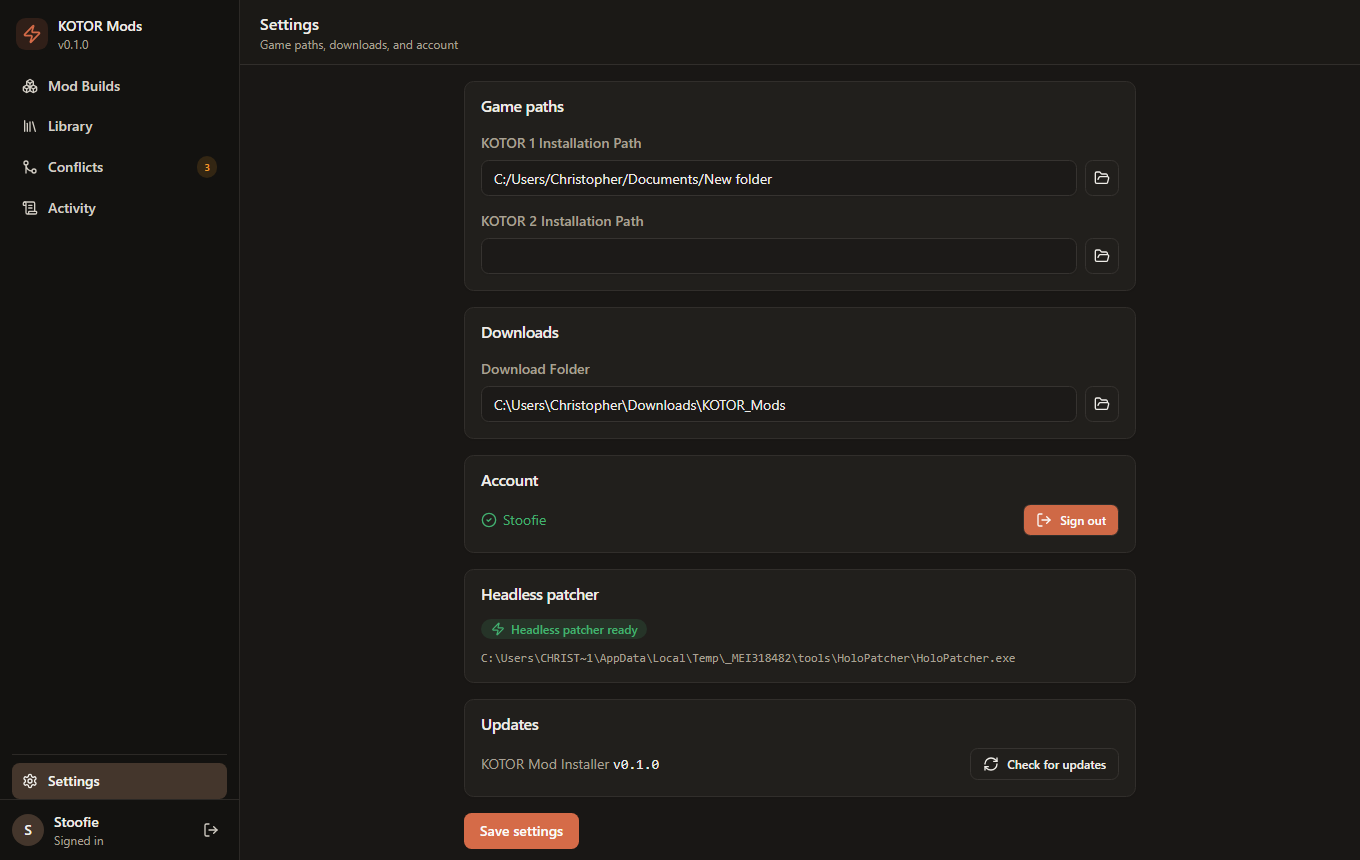
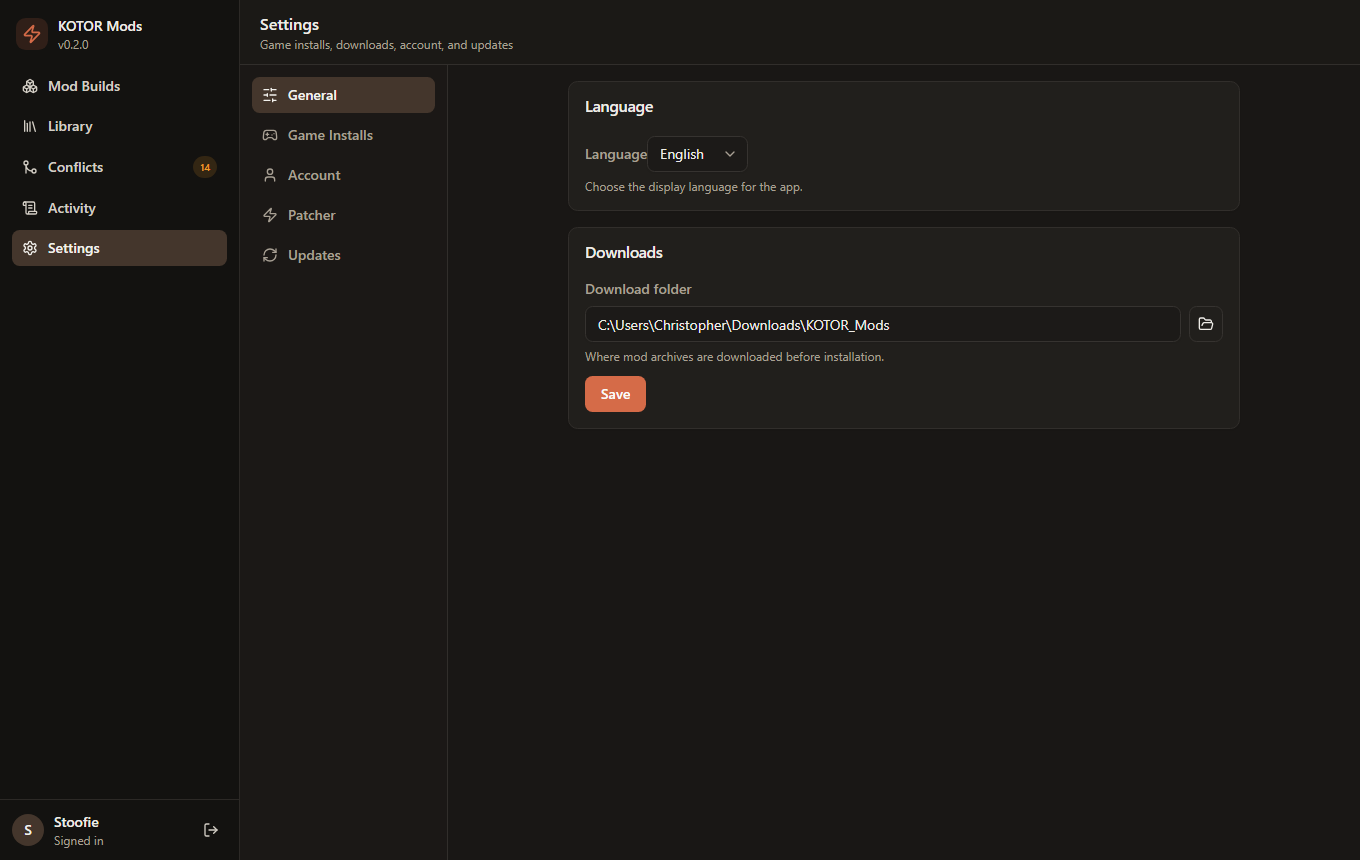
fix(ui): render inline bold in What's New; refresh screenshots
Render **bold** segments in the What's New changelog (scope prefixes no longer
show literal asterisks). Update the docs screenshots to the sectioned settings
and corrected sidebar.

diff --git a/frontend/src/components/WhatsNew.tsx b/frontend/src/components/WhatsNew.tsx
@@ -1,7 +1,18 @@
-import { useMemo } from "react";
+import { Fragment, useMemo, type ReactNode } from "react";
 import { Dialog } from "@/components/ui/dialog";
 import { Button } from "@/components/ui/button";
 import { useT } from "@/lib/i18n";
+
+// Render inline **bold** segments within a line.
+function inline(text: string): ReactNode[] {
+  return text.split(/(\*\*[^*]+\*\*)/g).map((part, i) =>
+    part.startsWith("**") && part.endsWith("**") ? (
+      <strong key={i} className="font-medium text-foreground">{part.slice(2, -2)}</strong>
+    ) : (
+      <Fragment key={i}>{part}</Fragment>
+    )
+  );
+}
 
 interface WhatsNewProps {
   open: boolean;
@@ -80,13 +91,13 @@ export function WhatsNew({ open, version, notes, onClose }: WhatsNewProps) {
             return (
               <ul key={i} className="list-disc space-y-1 pl-5 text-muted-foreground">
                 {b.items.map((it, j) => (
-                  <li key={j} className="leading-relaxed">{it}</li>
+                  <li key={j} className="leading-relaxed">{inline(it)}</li>
                 ))}
               </ul>
             );
           }
           return (
-            <p key={i} className="leading-relaxed text-muted-foreground">{b.text}</p>
+            <p key={i} className="leading-relaxed text-muted-foreground">{inline(b.text)}</p>
           );
         })}
       </div>